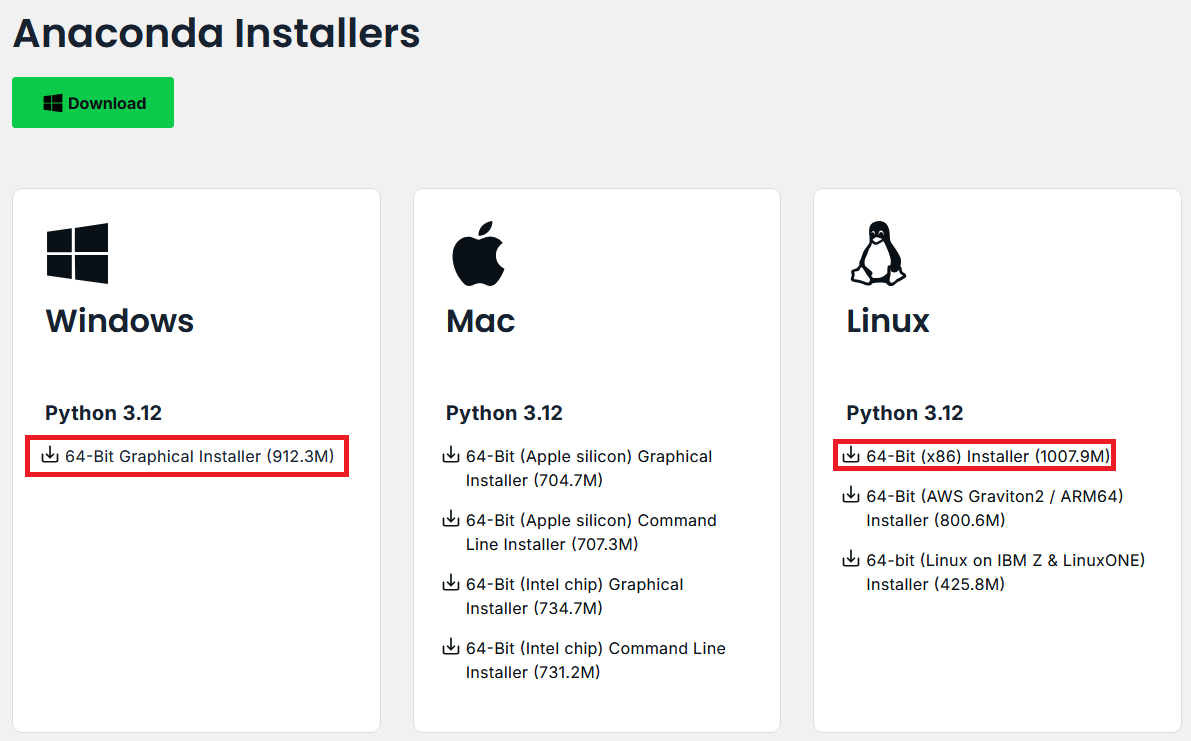
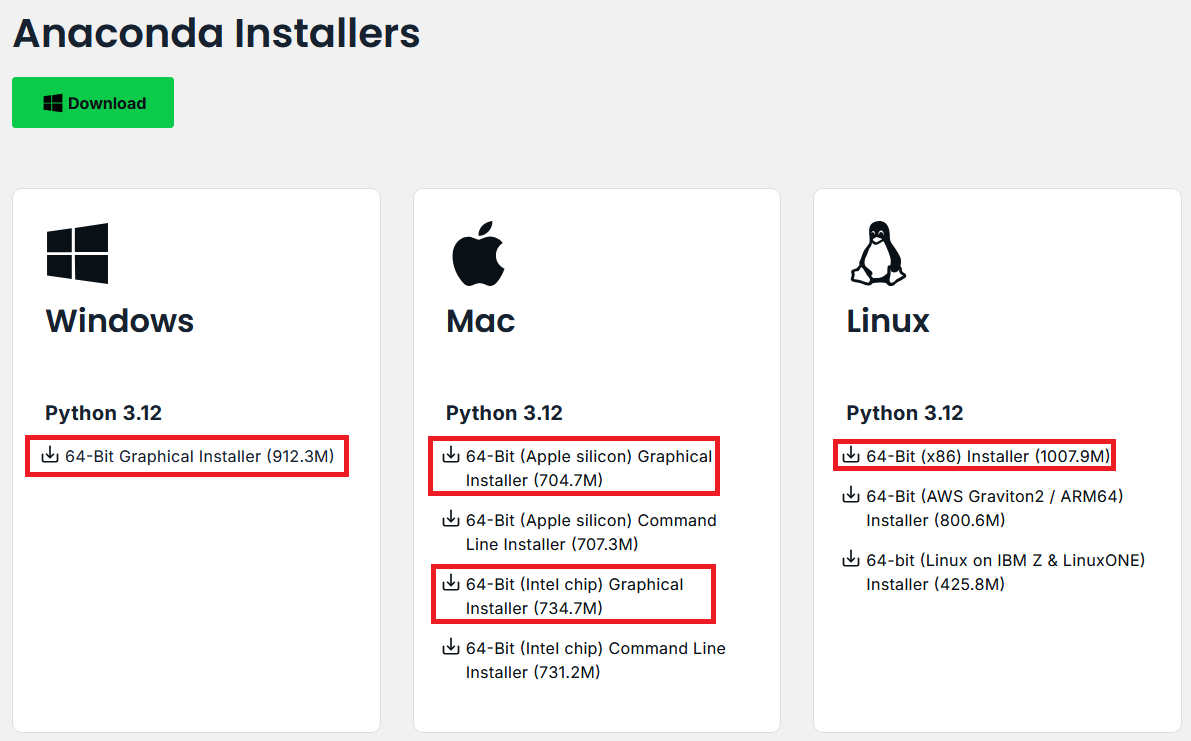
Updated Installguide

Changed region(s): [[0.3417, 0.5897, 0.6213, 0.6829], [0.3417, 0.7449, 0.6213, 0.8381], [0.3728, 0.8381, 0.5903, 0.8691]]

diff --git a/content/chapter01_einfuehrung/installationsguide.md b/content/chapter01_einfuehrung/installationsguide.md
@@ -18,8 +18,13 @@ Laden Sie Anaconda [hier](https://www.anaconda.com/download) herunter. Dazu müs
 Anschließend erhalten Sie eine E-Mail, bei der Sie den Button **Download Now** drücken müssen.
 ```{figure} img/anaconda/anaconda_installation_2.png
 ```
-Sie werden zu einer Seite weitergeleitet, auf der Sie zunächst ihr Betriebssystem auswählen müssen, um dann die entsprechende Datei herunterzuladen. Für jedes Betriebssystem haben wir die richtige Wahl rot umrandet. 
+Sie werden zu einer Seite weitergeleitet, auf der Sie zunächst ihr Betriebssystem auswählen müssen, um dann die entsprechende Datei herunterzuladen. Für jedes Betriebssystem haben wir die richtige Wahl rot umrandet.
+
+Falls Sie MacOS verwenden, hängt die richtige Wahl von dem Prozessors Ihres Mac-Computers ab. Wenn ein Apple M1, M2, M3, M4 Prozessor oder neuer verbaut worden ist, wählen Sie die Variante *Apple silicon*.
+
 ```{figure} img/anaconda/anaconda_installation_3.png
+    :figclass: center 
+    :width: 100%
 ```
 Nun haben Sie die aktuelle Version von Python (Python 3.12) heruntergeladen.
 
